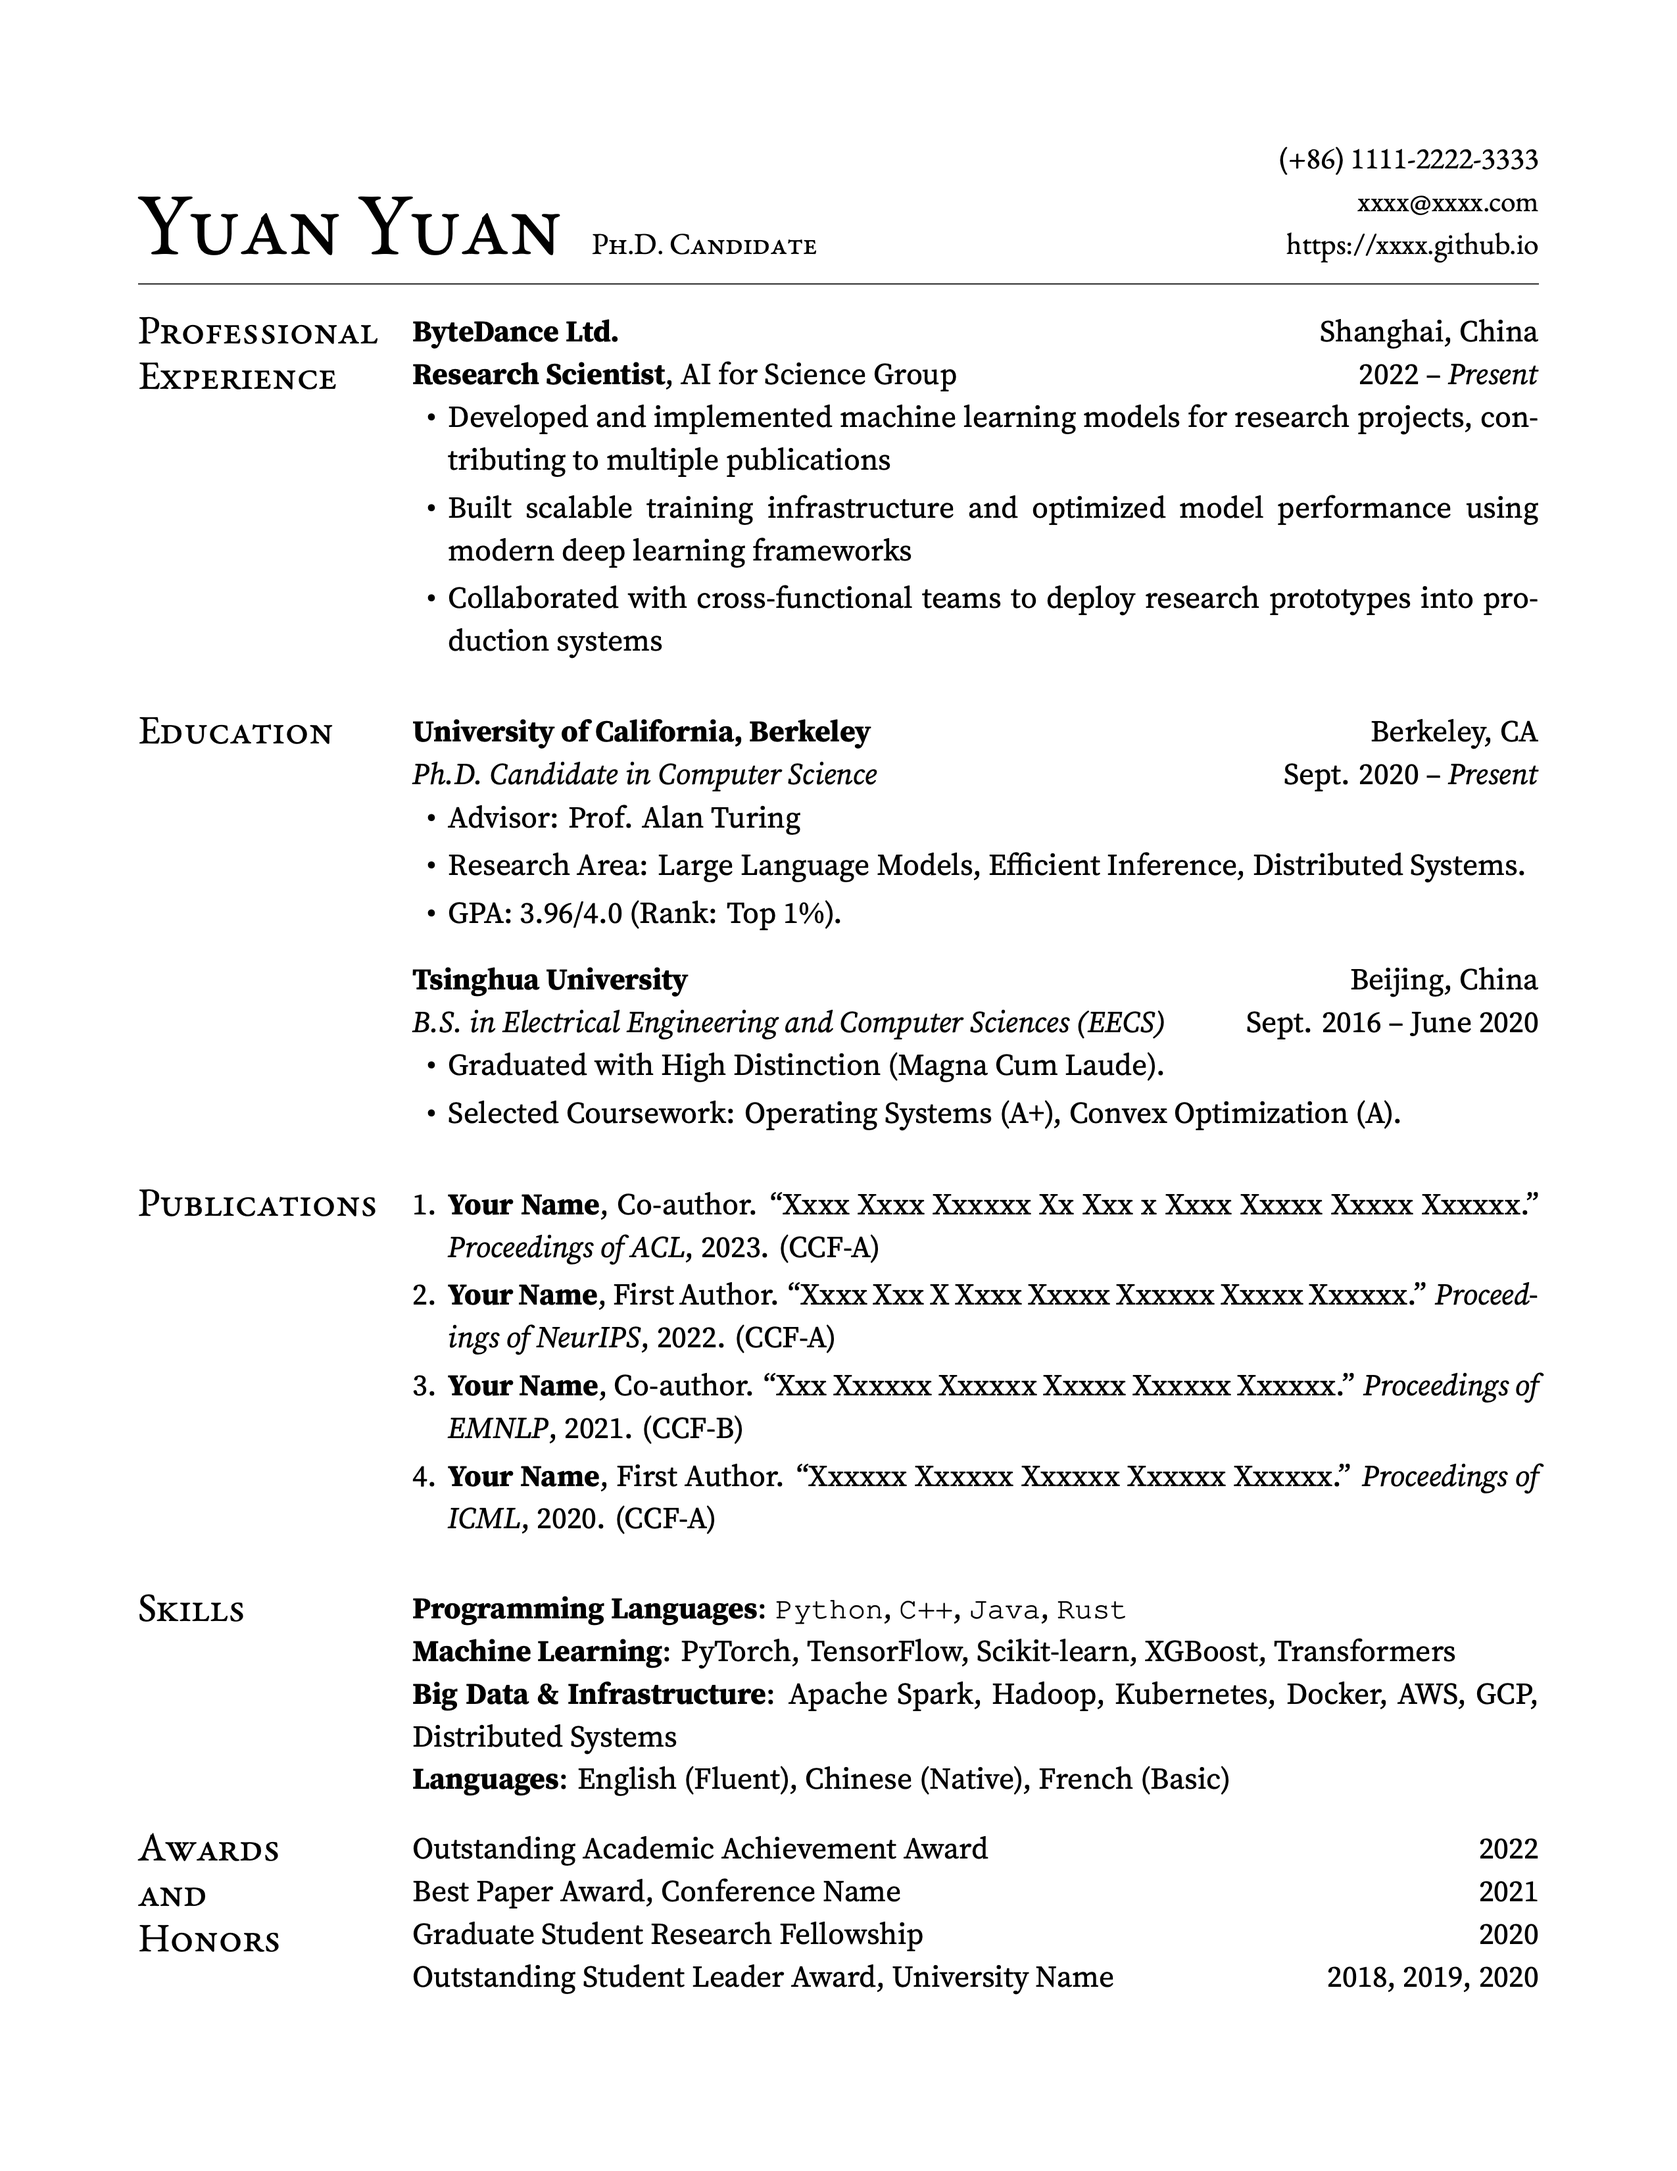
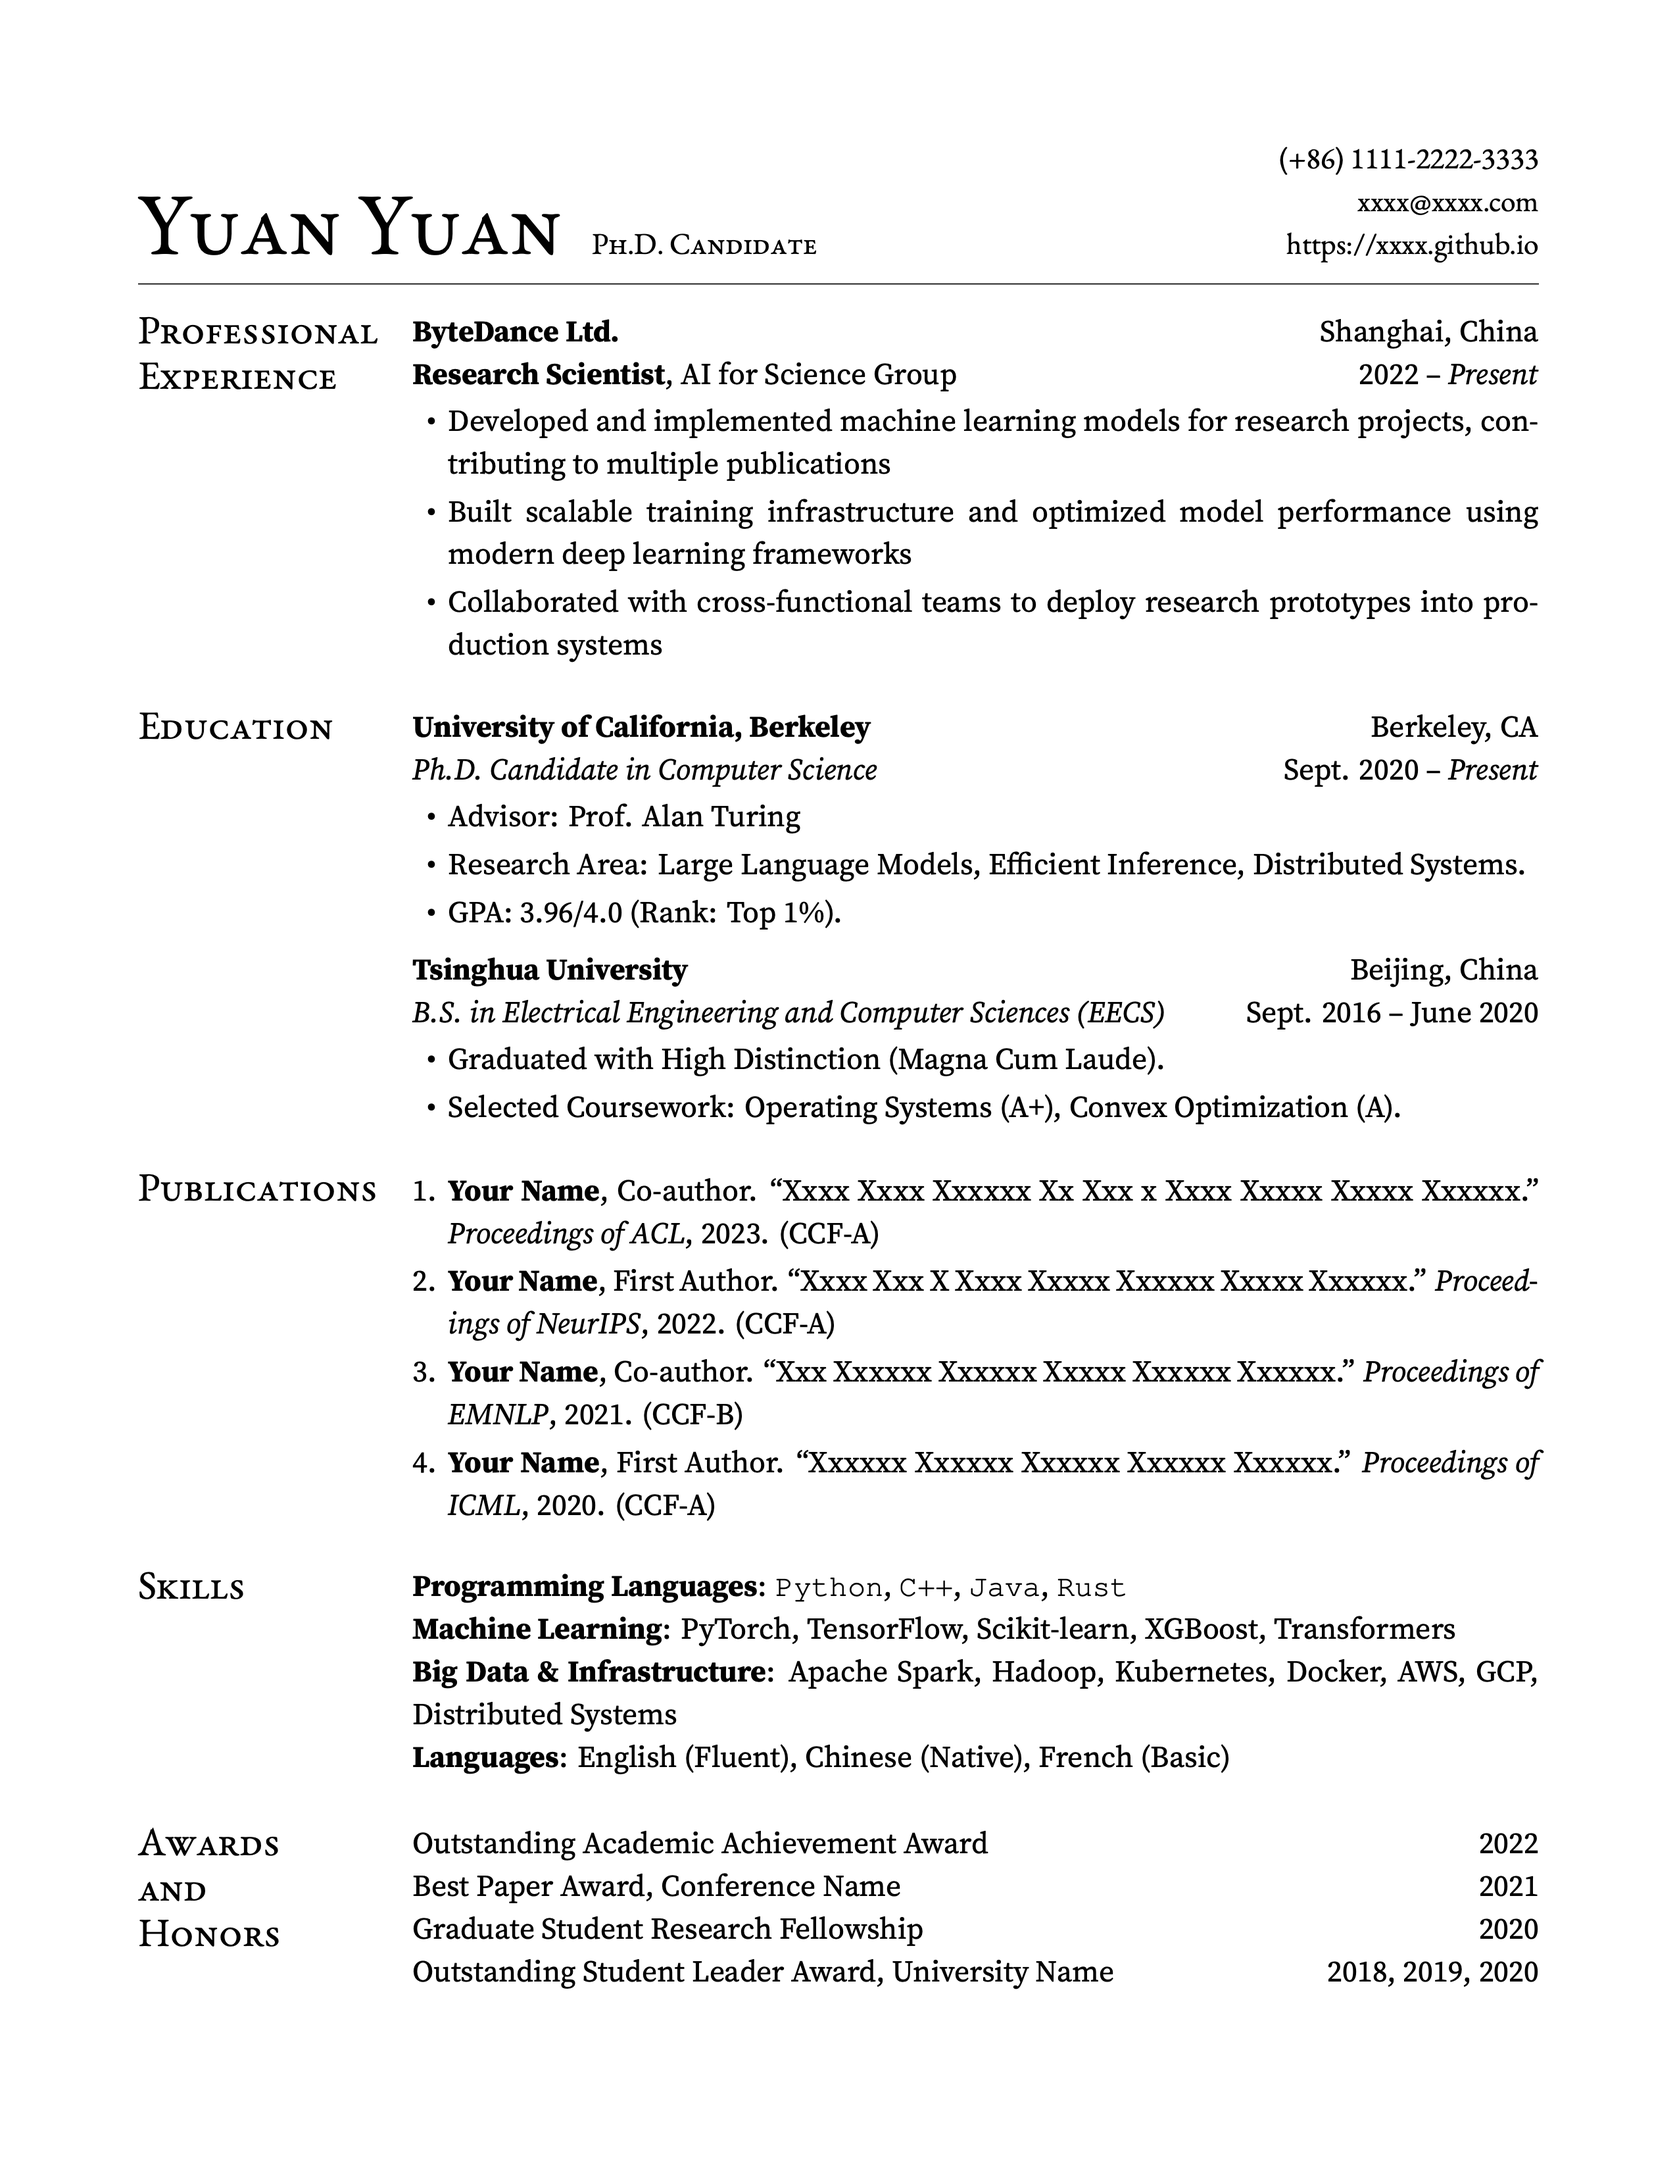
feat: add pagefooter

diff --git a/main.tex b/main.tex
@@ -6,11 +6,15 @@
 % In local TeX: Use 'xelatex main.tex' instead of 'pdflatex main.tex'
 %
 % ====================================================================
-% Font Configuration
+% Class Options
 % ====================================================================
-% Supports both 'default' (open source) and 'commercial' font styles.
-% To switch, set the fontset option: [fontset=default] for open source fonts, [fontset=commercial] for commercial fonts (requires manual download).
-\documentclass[fontset=default]{yuan2resume}
+% - fontset: 'default' (open source) or 'commercial' (requires manual font files)
+%   Example: fontset=default or fontset=commercial
+%
+% - pagefooter: boolean (default: true)
+%   When enabled, shows a centered footer: "Name · current/total" (e.g., "Yuan Yuan · 2/3").
+%   Set pagefooter=false to hide header/footer entirely.
+\documentclass[fontset=default,pagefooter=false]{yuan2resume}
 
 \name{Yuan Yuan}
 \position{Ph.D. Candidate}
@@ -50,6 +54,7 @@
 \end{cvsection}
 
 \begin{cvsection}{Publications}
+  \vspace{-0.5\cvitemsep}
   \begin{cvnumlist}
     \item \textbf{Your Name}, Co-author. ``Xxxx Xxxx Xxxxxx Xx Xxx x Xxxx Xxxxx Xxxxx Xxxxxx.'' \textit{Proceedings of ACL}, 2023. (CCF-A)
     \item \textbf{Your Name}, First Author. ``Xxxx Xxx X Xxxx Xxxxx Xxxxxx Xxxxx Xxxxxx.'' \textit{Proceedings of NeurIPS}, 2022. (CCF-A)
@@ -64,6 +69,7 @@
   \textbf{Big Data \& Infrastructure}: Apache Spark, Hadoop, Kubernetes, Docker, AWS, GCP, Distributed Systems \\
   \textbf{Languages}: English (Fluent), Chinese (Native), French (Basic)
 \end{cvsection}
+\vspace{\cvafterlist}
 
 \begin{cvsection}{Awards\\and\\Honors}
   \cvpair{Outstanding Academic Achievement Award}{2022}

diff --git a/README.md b/README.md
@@ -6,7 +6,7 @@
 
 <p align="center">
   <a href="https://github.com/eugenejyuan/yuan2-resume">
-    <img alt="Version" src="https://img.shields.io/badge/version-0.1.0-blue?cacheSeconds=300">
+    <img alt="Version" src="https://img.shields.io/badge/version-0.2.0-blue?cacheSeconds=300">
   </a>
   <a href="https://www.latex-project.org/">
     <img alt="LaTeX" src="https://img.shields.io/badge/LaTeX-XeLaTeX-green?cacheSeconds=300">
@@ -79,6 +79,21 @@ To switch between font sets, modify the `fontset` option in `main.tex`:
 
 % For commercial fonts (requires font files)
 \documentclass[fontset=commercial]{yuan2resume}
+```
+
+### Page Footer (Optional)
+
+The class also supports a `pagefooter` boolean option to control whether a page footer is shown.
+
+- When enabled (default), the footer displays: `Name · current/total` (e.g., `Yuan Yuan · 2/3`).
+- When disabled, the document uses an empty page style (no header/footer).
+
+```latex
+% Enable footer (default)
+\documentclass[fontset=default,pagefooter=true]{yuan2resume}
+
+% Disable footer
+\documentclass[fontset=default,pagefooter=false]{yuan2resume}
 ```
 
 ### Default Font Set (Open-source)
